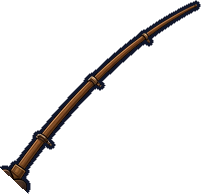
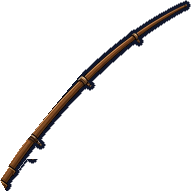
Desktop pet: recut Smudge parts and rig, shoulder-swing arm
Claude-Session: https://claude.ai/code/session_01MKsZvYnMVUP17zjeeAuUE4

Changed region(s): [[0.0, 0.0, 0.9948, 1.0]]

diff --git a/PLAN.md b/PLAN.md
@@ -89,7 +89,7 @@ Status: [x] done, [~] partly done, [ ] not started.
 - [x] All four working poses are DragonBones rigs (`rules/dbexport.py` writes `assets/v2/db/smudge_<pose>_*`): shared bones, bending tail, same move names on each (idle, act, cheer, blink, talk)
 - [x] `DBCanvas.Puppet` in `js/dbcanvas.js`: drop-in Smudge player (act / cheer / say), loads each pose on demand
 - [x] Sleeping pose as a DragonBones rig: back rises and falls, snout and paw twitches at random, tail tip curls, three Zs ripple one after another
-- [ ] Copy the recut parts into the desktop pet (`desktop-fable/`)
+- [x] Recut Smudge parts and rig copied into the desktop pet (`desktop-fable/`); arm swings from the shoulder there too. Runs clean in the headless test. It still uses the simple rig (no bending tail yet)
 - [x] All 26 heroes exported on the shared skeleton (`python3 rules/dbexport.py heroes` -> `assets/v2/db/hero_<id>_*`), bending tail on the seven that have one; `DBCanvas.Puppet(host, id, scale, {hero:true})`
 - [x] Every hero's head recut (`rules/hero_cut.py`): lower edge feathered into the body, neck and collar painted in underneath, so heads tilt with no slit and no stuck copy
 - [ ] Heroes: extra moving parts where it earns it (arms, wings, capes, weapons). Head outlines are still the first coarse ones, so a hat brim or a weapon beside the head moves with it
